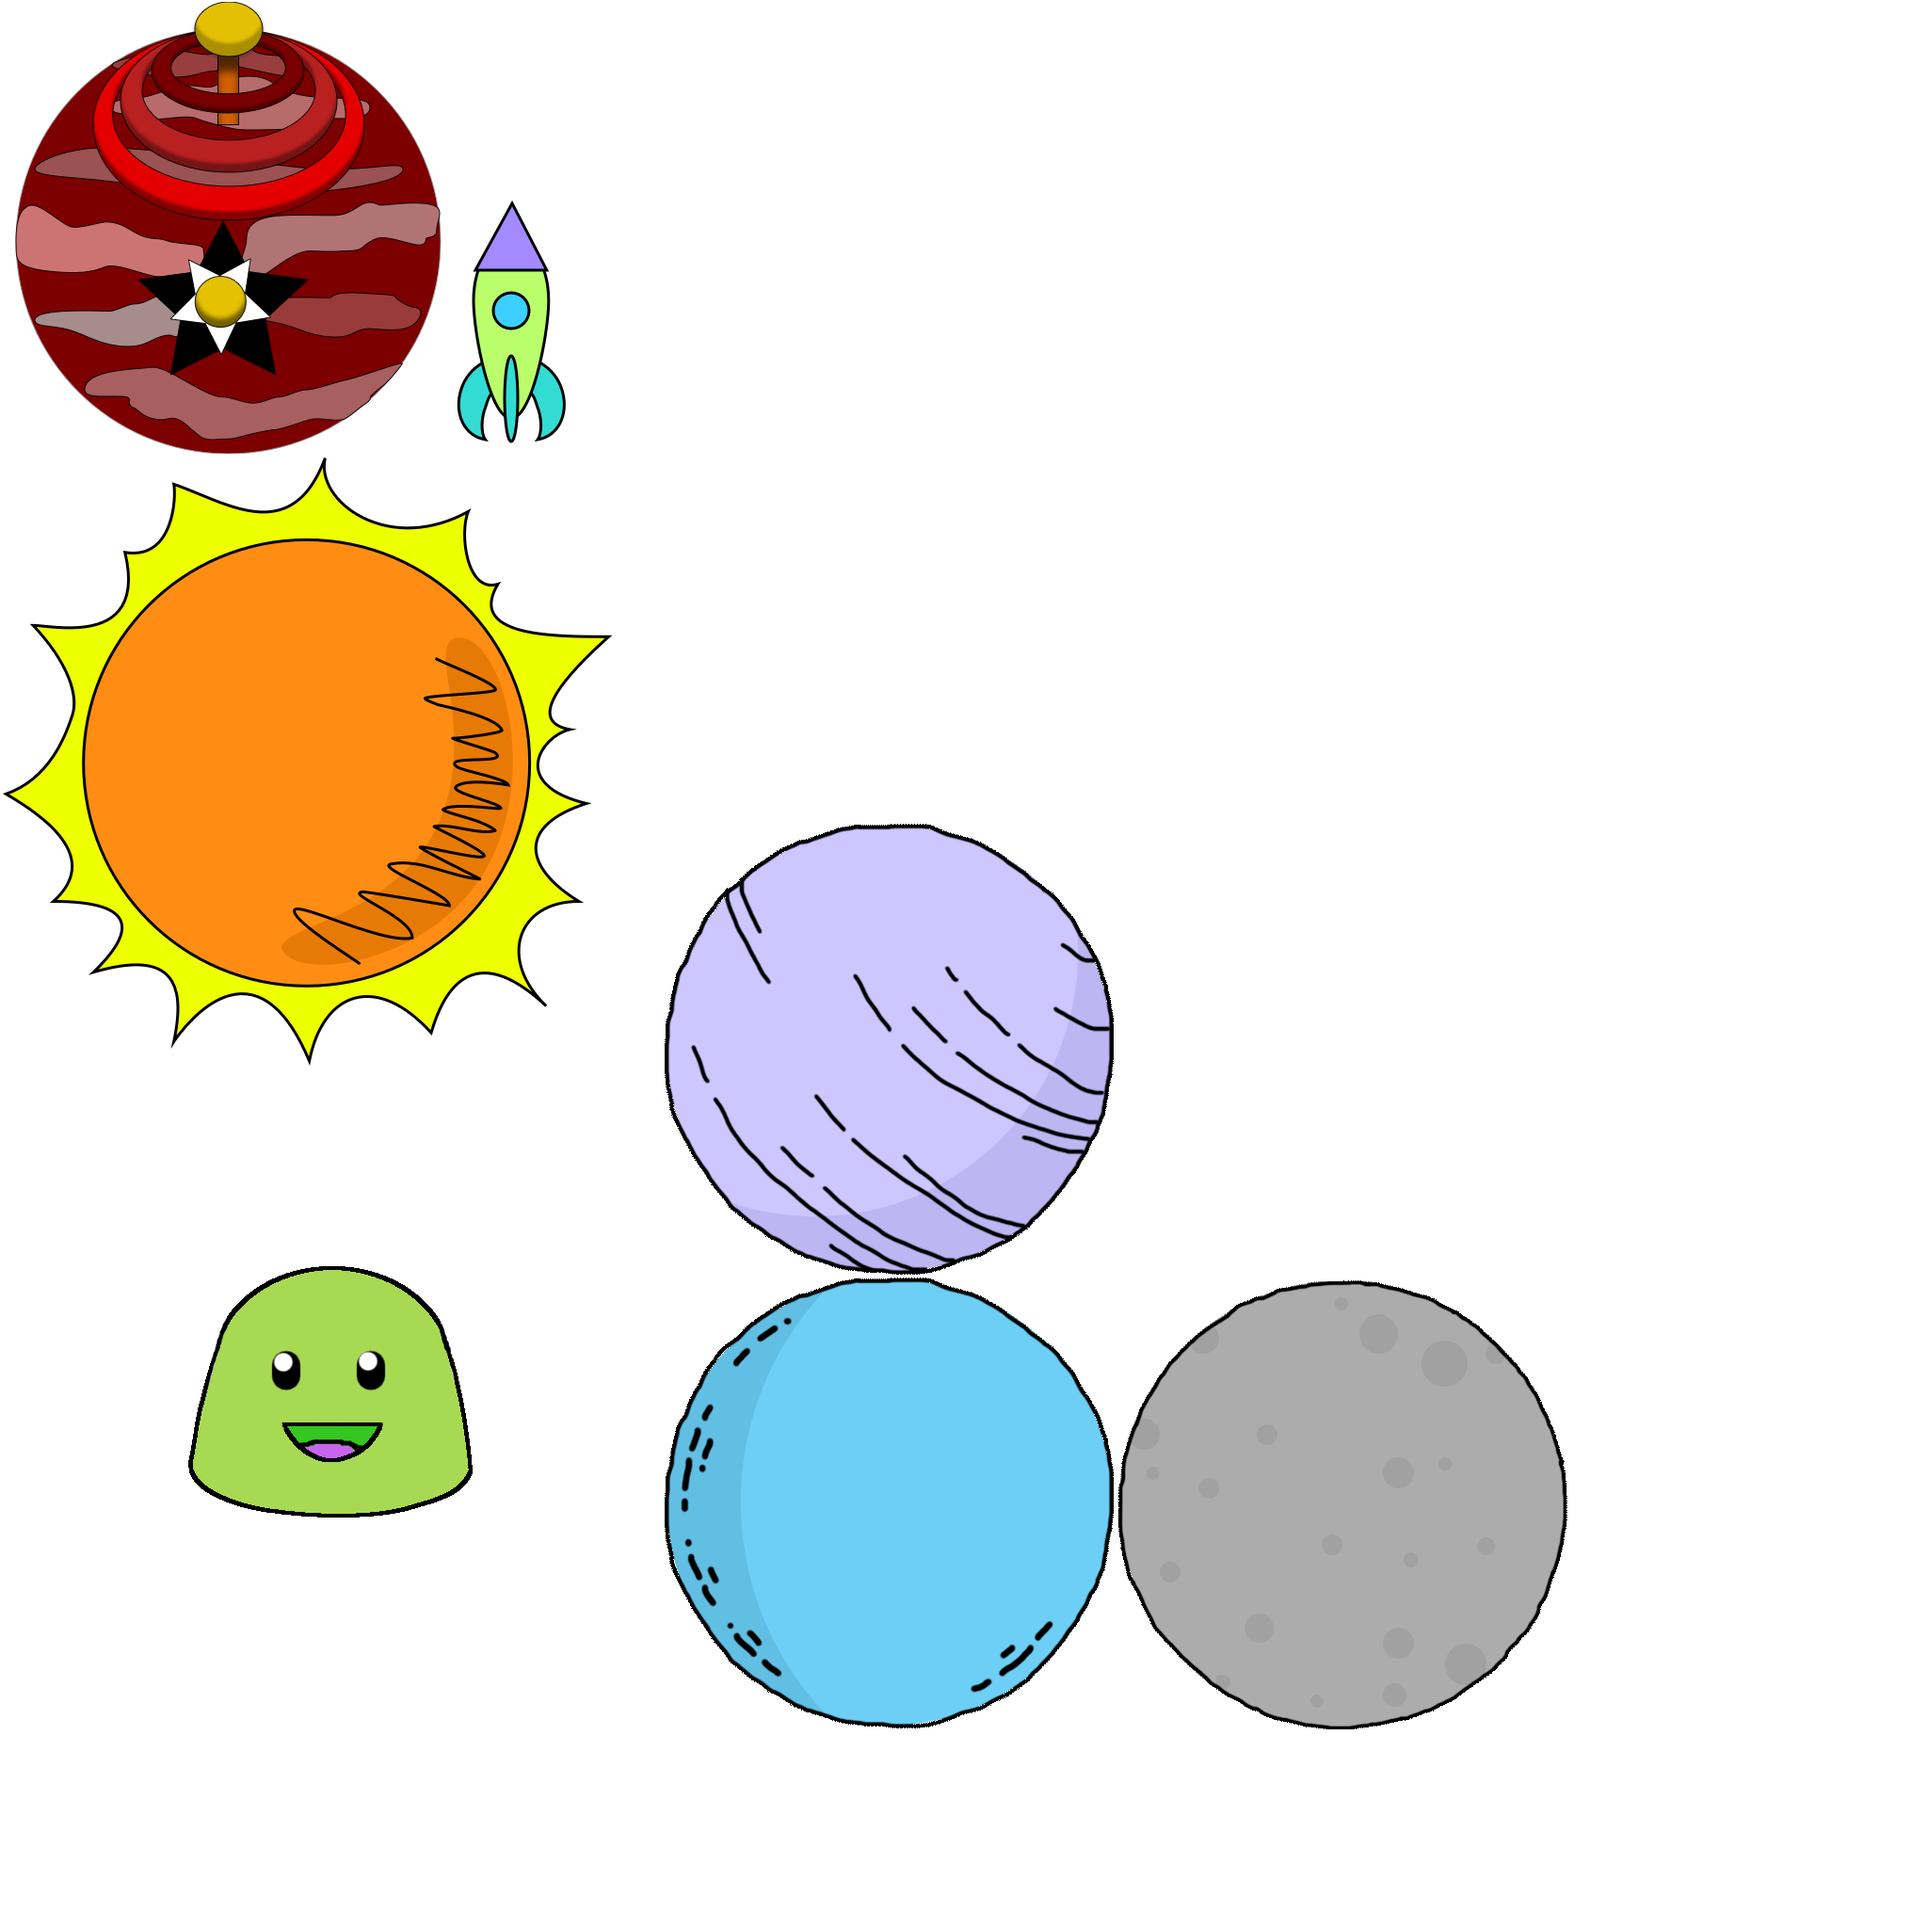
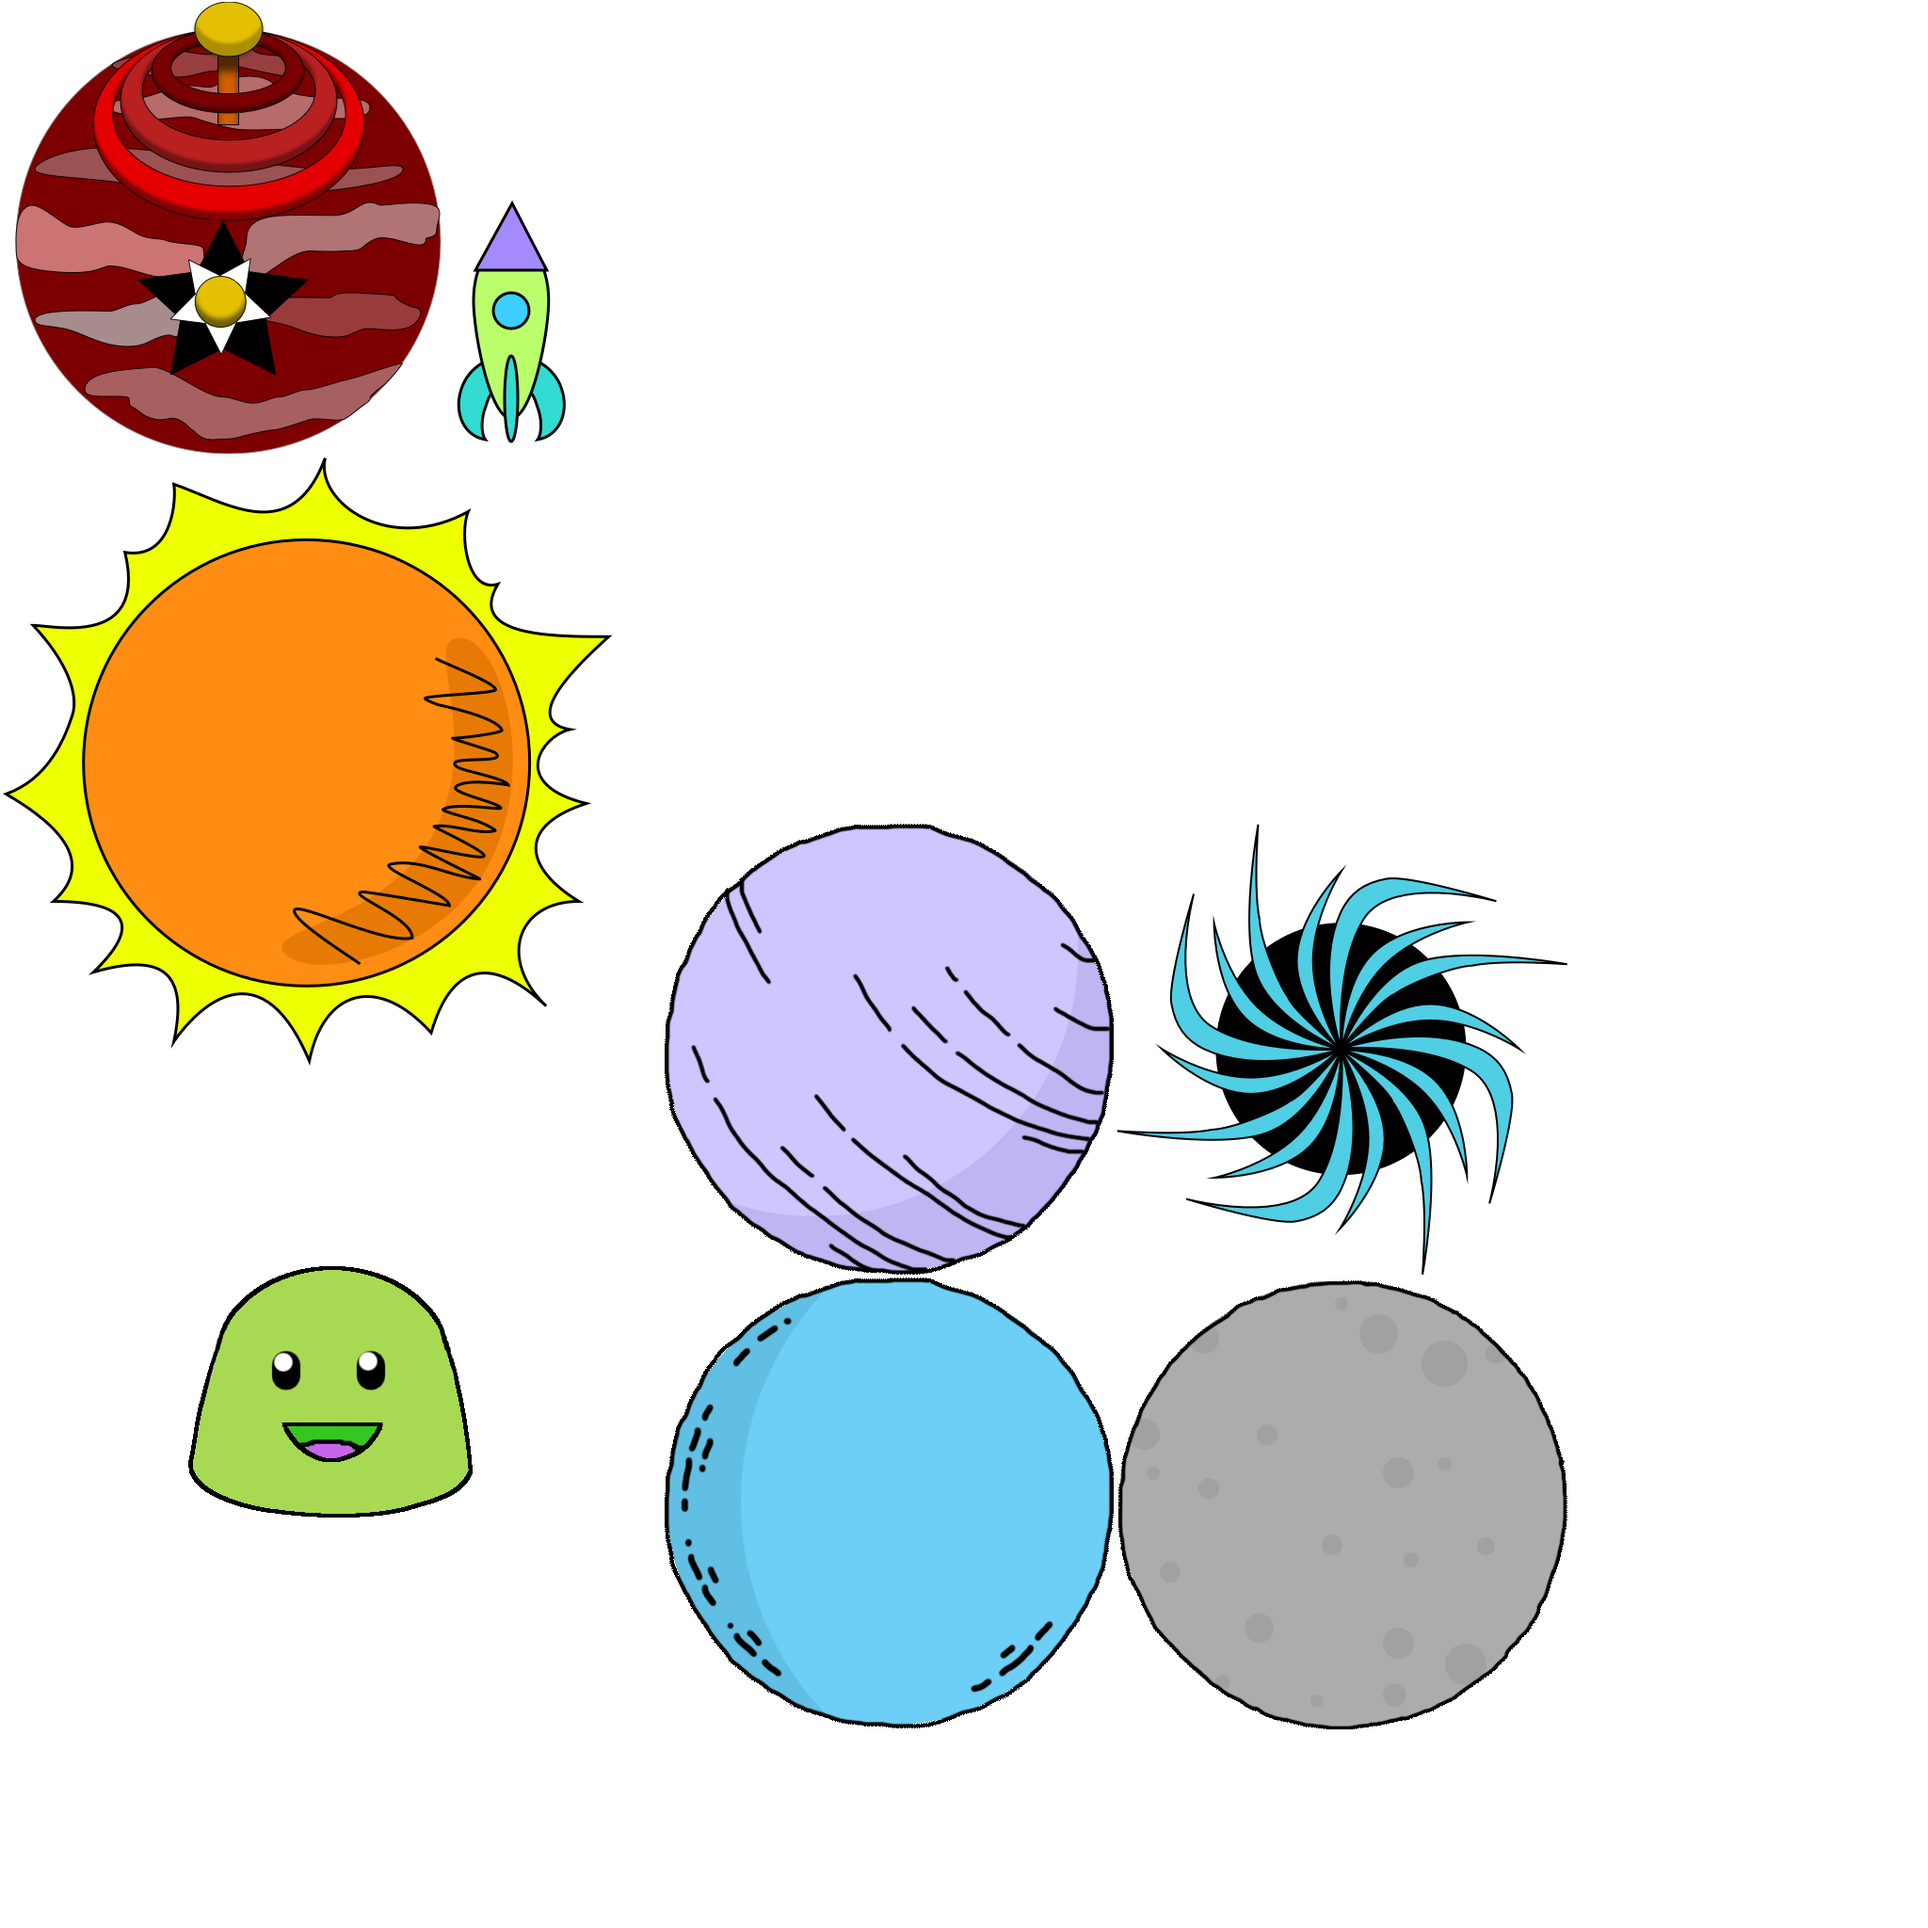
finished adding black holes

Changed region(s): [[0.5938, 0.4375, 0.7812, 0.6562]]

diff --git a/Code/core/src/edu/cornell/gdiac/controller/PlayMode.java b/Code/core/src/edu/cornell/gdiac/controller/PlayMode.java
@@ -26,6 +26,7 @@ import edu.cornell.gdiac.util.ScreenListener;
 import edu.cornell.gdiac.util.SoundController;
 import com.badlogic.gdx.utils.Array;
 import com.badlogic.gdx.Files;
+import com.badlogic.gdx.utils.ObjectMap;
 
 import javax.swing.plaf.TextUI;
 
@@ -529,6 +530,7 @@ public class PlayMode extends WorldController implements ContactListener {
 
     private Array<Array<Float>> PLANETS = new Array<Array<Float>>();
     private Array<Array<Float>> SHIPS = new Array<Array<Float>>();
+    private Array<Array<Float>> BLACK_HOLES = new Array<Array<Float>>();
     // Physics objects for the game
     /** Reference to the character avatar */
     private OobModel avatar;
@@ -621,6 +623,8 @@ public class PlayMode extends WorldController implements ContactListener {
         String objectName;
         Array<Array<Float>> planetArray = new Array<Array<Float>>();
         Array<Array<Float>> shipArray = new Array<Array<Float>>();
+        Array<Array<Float>> blackHoleArray = new Array<Array<Float>>();
+        ObjectMap<Integer, Array<Float>> bhmap = new ObjectMap<Integer, Array<Float>>();
         Array<Float> tempArray;
         float scale = 0f;
         float xPos = 0f;
@@ -690,9 +694,42 @@ public class PlayMode extends WorldController implements ContactListener {
             else if(objectName.equals("oob2")){
                 OOB_RADIUS = scale / 0.2f;
             }
+            else if(objectName.equals("blackHole")){
+                tempArray = new Array<Float>();
+                tempArray.add((xPos+3)*3);
+                tempArray.add((yPos+3)*3);
+                tempArray.add(2.5f*scale/0.3f);
+                String custom = temp.getString("customVars");
+                int holePair = 0;
+                float direction = 0;
+                for(int a = 0; a<custom.length(); a++){
+                    if(custom.substring(a, a+5).equals("type:")){
+                        while(custom.charAt(a+5)!=';'){
+                            holePair = holePair * 10;
+                            holePair += Character.getNumericValue(custom.charAt(a+5));
+                            a++;
+                        }
+                    }
+                    if(custom.substring(a, a+10).equals("direction:")){
+                        direction = Float.parseFloat(custom.substring(a+10));
+                        a = custom.length();
+                    }
+                }
+                tempArray.add((float)Math.cos(Math.toRadians(direction)));
+                tempArray.add((float)Math.sin(Math.toRadians(direction)));
+                if(bhmap.containsKey(holePair)){
+                    blackHoleArray.add(tempArray);
+                    blackHoleArray.add(bhmap.get(holePair));
+                    bhmap.remove(holePair);
+                }
+                else{
+                    bhmap.put(holePair, tempArray);
+                }
+            }
         }
         PLANETS = planetArray;
         SHIPS = shipArray;
+        BLACK_HOLES =blackHoleArray;
 
     }
 
@@ -879,20 +916,25 @@ public class PlayMode extends WorldController implements ContactListener {
         }
 
         // Create black holes
-        BlackHoleModel b1 = new BlackHoleModel(16, 40, 1, new Vector2(0,-1));
-        BlackHoleModel b2 = new BlackHoleModel(30, 8, 1, new Vector2(-1,0));
-        b1.setTexture(blackHoleTexture);
-        b1.scalePicScale(new Vector2(0.25f, 0.25f));
-        b2.scalePicScale(new Vector2(0.25f, 0.25f));
-        b2.setTexture(blackHoleTexture);
-        b1.setPair(b2);
-        b2.setPair(b1);
-        b1.setBodyType(BodyDef.BodyType.StaticBody);
-        b2.setBodyType(BodyDef.BodyType.StaticBody);
-        b1.setDrawScale(scale);
-        b2.setDrawScale(scale);
-        addObject(b1);
-        addObject(b2);
+        for(int ii = 0; ii < BLACK_HOLES.size; ii = ii+2) {
+            BlackHoleModel b1 = new BlackHoleModel(BLACK_HOLES.get(ii).get(0), BLACK_HOLES.get(ii).get(1),
+                    BLACK_HOLES.get(ii).get(2), new Vector2(BLACK_HOLES.get(ii).get(3), BLACK_HOLES.get(ii).get(4)));
+            BlackHoleModel b2 = new BlackHoleModel(BLACK_HOLES.get(ii+1).get(0), BLACK_HOLES.get(ii+1).get(1),
+                    BLACK_HOLES.get(ii+1).get(2), new Vector2(BLACK_HOLES.get(ii+1).get(3), BLACK_HOLES.get(ii+1).get(4)));
+            b1.setTexture(blackHoleTexture);
+            b1.scalePicScale(new Vector2(0.25f, 0.25f));
+            b2.scalePicScale(new Vector2(0.25f, 0.25f));
+            b2.setTexture(blackHoleTexture);
+            b1.setPair(b2);
+            b2.setPair(b1);
+            b1.setBodyType(BodyDef.BodyType.StaticBody);
+            b2.setBodyType(BodyDef.BodyType.StaticBody);
+            b1.setDrawScale(scale);
+            b2.setDrawScale(scale);
+
+            addObject(b1);
+            addObject(b2);
+        }
 
         // Create Ships
 
